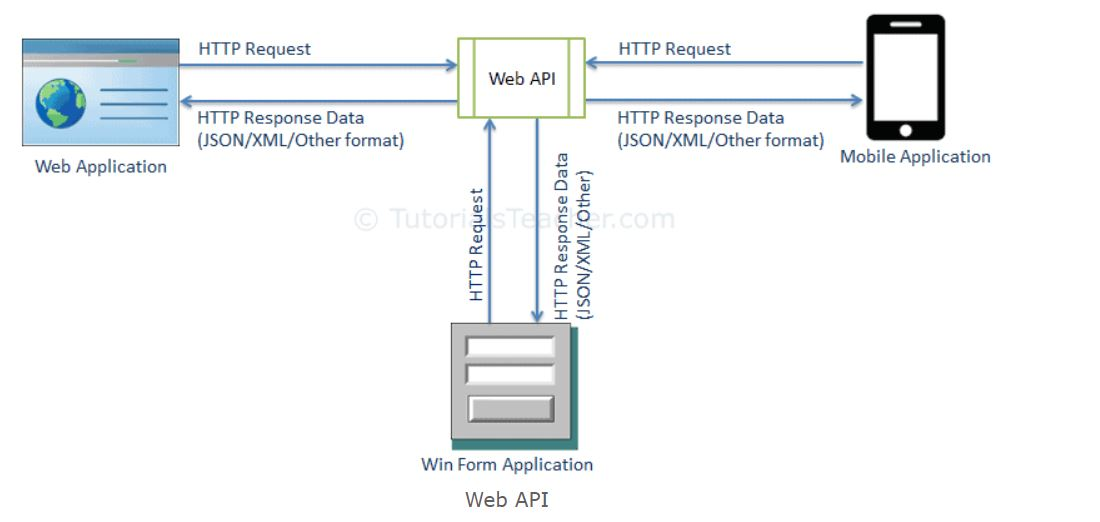
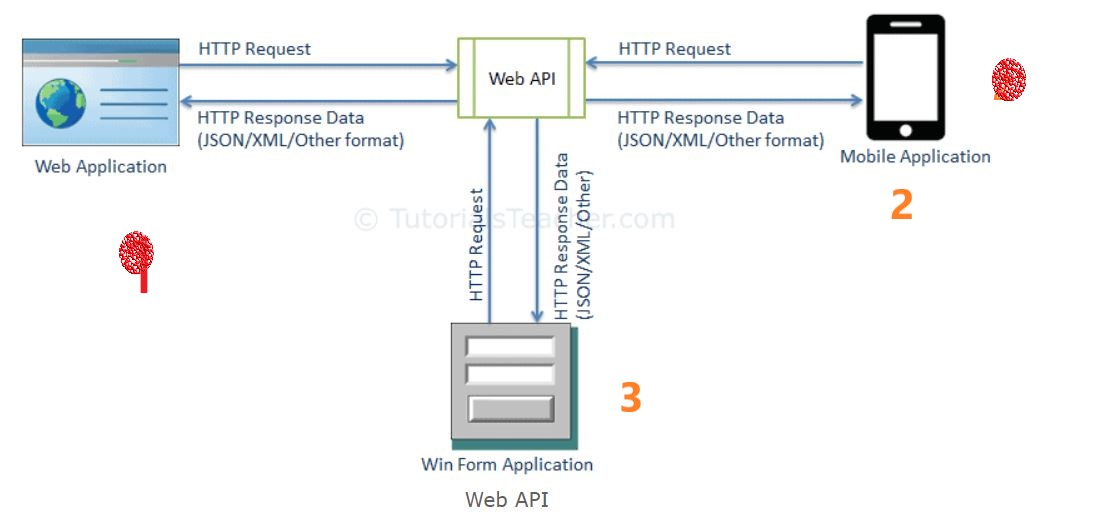
Update architecture-overview.md  file to uses picture for explainings

diff --git a/documents/architecture-overview.md b/documents/architecture-overview.md
@@ -1,3 +1,9 @@
 # ARCHITECTURE SMS BACKEND
 
 # Overview
+![ApplicationInteraction](../documents/imgs/ApplicationInteraction.JPG)
+TODO small aber smart explaning
+## WebApi VS. Web App
+![WebApiAdvantage.JPG](../documents/imgs/WebApiAdvantage.JPG)
+TODO@Idrice small aber smart explaning
+Best pro: 1, 2 and 3 can be implemented with different Technologie or Platform without changing server implementation.!!
